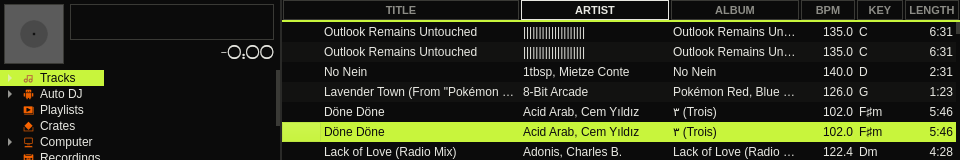
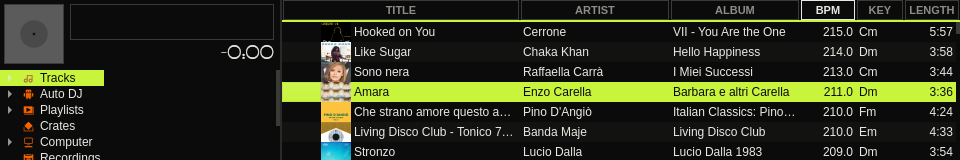
Pi doc: screenshots of every Push screen
Captured from the Pi with an exported USB drive: Device, Mix, FX and Browse
pages (Browse with cover art, and the imported playlists), plus the screens
the screen app draws itself (Pi stats, restart/eject countdowns, safe to
remove, insert USB drive, starting Mixxx).

diff --git a/docs/raspberry-pi.md b/docs/raspberry-pi.md
@@ -4,7 +4,7 @@ status: active
 area: dj
 tags: [dj, mixxx, push2, raspberry-pi]
 created: 2026-10-17
-updated: 2026-10-17
+updated: 2026-10-26
 ---
 
 # Headless Raspberry Pi deployment
@@ -15,14 +15,51 @@ Audio 6 as the sound card, and the music on a USB drive. The Pi runs this
 repo's `commissioning` branch from `~/push-mixxx`; most pieces below are
 system config on the Pi itself (not in the repo).
 
-| Device page | Mix page |
-|---|---|
-| ![Device](screenshots/push-device.png) | ![Mix](screenshots/push-mix.png) |
-| **Browse page** | **FX page (Clip scene)** |
-| ![Browse](screenshots/push-browse.png) | ![FX](screenshots/push-fx.png) |
+## Screens
 
-Captured from the Pi's virtual display (what the Push 2 shows) with two decks
-playing; the line under the artist is the beat-sync meter.
+Captured from the Pi's virtual display (exactly what the Push 2 shows), with a
+track loaded on each deck from an exported USB drive.
+
+**Device page** (Device scene): cover, title/artist/album, remaining time, BPM,
+pitch, overview with cue marker, transport/loop row, hotcues.
+
+![Device](screenshots/push-device.png)
+
+**Mix page** (Mix scene): both decks' scrolling waveforms. While both decks
+play, the line under each artist becomes the beat-sync meter.
+
+![Mix](screenshots/push-mix.png)
+
+**FX page** (Clip scene): the two effect units with their default chains,
+Reverb/Filter/Flanger and Echo/Filter/Phaser; the lime bar marks the selected
+effect (arrows or touching its encoder).
+
+![FX](screenshots/push-fx.png)
+
+**Browse page** (Browse scene): preview deck, library sidebar, and the track
+table with cover art, its columns lined up under the sort labels (here sorted by
+BPM, descending; the selected row is lime).
+
+![Browse](screenshots/push-browse.png)
+
+The sidebar's **Playlists** section holds the playlists imported from the drive's
+`Playlists/*.m3u8` (track count and length after each name).
+
+![Browse, playlists](screenshots/push-browse-playlists.png)
+
+### Drawn by the screen app
+
+These are rendered by `screen/mixxx-midi-bridge.py` on top of (or instead of) the
+skin capture. The stats page shows sample numbers.
+
+| | |
+|---|---|
+| **User**: Pi stats page | ![Pi stats](screenshots/screen-pi-stats.png) |
+| hold **Setup**: restart countdown | ![Restart countdown](screenshots/screen-setup-restart.png) |
+| **Shift** + hold **Setup**: eject countdown | ![Eject countdown](screenshots/screen-eject-countdown.png) |
+| after eject | ![Safe to remove](screenshots/screen-safe-to-remove.png) |
+| no drive plugged in | ![Insert USB drive](screenshots/screen-insert-usb.png) |
+| drive in, Mixxx loading | ![Starting Mixxx](screenshots/screen-starting.png) |
 
 ## How it fits together
 
@@ -46,8 +83,7 @@ Services (systemd): `xvfb`, `mixxx`, `push2-screen`, `push2-midi-relay`,
 | **Shift** + hold **Setup** 3 s | eject the USB drive (Mixxx quits cleanly, saves cues; "Safe to remove") |
 | **Delete** | closes any Mixxx popup window that landed on the screen |
 
-![Pi stats page](screenshots/preview-pi-stats.png)
-![Eject countdown and safe-to-remove](screenshots/preview-eject.png)
+See [Screens](#screens) for what each one looks like.
 
 ## Behaviour worth knowing
 
